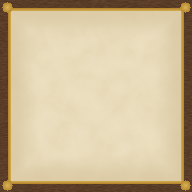
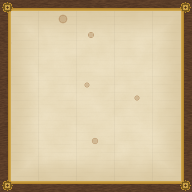
Fase 21, parte 3: papel envelhecido na interface e na carta

diff --git a/assets/TODO_ASSETS.md b/assets/TODO_ASSETS.md
@@ -27,9 +27,9 @@ a descrição, o orçamento de polígonos e o prompt de imagem de referência.
 | posto do comerciante | desde a Fase 15, feitoria gerada no código (`presentation/trader_post_model.gd`): plataforma de tábuas sobre estacas, galpão, guindaste, carga, barcos e bandeira; desde a Fase 20, madeira com veio e tom por tábua, parede de tábuas em pé com fresta (`shaders/plank.gdshader`) e o cordame do guindaste, da bandeira e dos barcos; falta a textura de madeira pintada de verdade | até 6.000 | "feitoria de madeira sobre estacas no mar, século XIX, bandeira de comércio" | 9 |
 | píer | desde a Fase 15, trapiche de tábuas sobre estacas com cabeços de ferro, gerado no código (`presentation/harbor_view.gd`); desde a Fase 20, amarras da proa e da popa dos barcos até os cabeços e a madeira gasta no shader; desde a Fase 21, o cabo dá duas voltas no cabeço; falta a textura de madeira pintada | até 2.000 | "trapiche de madeira sobre estacas, século XIX, cordas e cabeços de amarração" | 9 |
 | rastro e gaivotas | desde a Fase 9, rastro de espuma em partículas e gaivotas voando em volta dos portos (`presentation/ship_view.gd`); desde a Fase 21, a gaivota tem corpo e asa dobrada com a ponta preta, batendo no shader do pássaro e planando (`BirdView.gull_mesh`); falta um modelo de verdade com penas | até 300 | "gaivota em voo, baixo polígono" | 10 |
-| mapa do arquipélago | desde a Fase 7, carta desenhada no código (papel, sépia, litoral a tinta, rosa dos ventos, `ui/hud/archipelago_map.gd`); desde a Fase 20, litoral a tinta, linhas d'água e hachura na terra gravados no código; falta a textura de papel | — | "mapa náutico do século XIX, arquipélago, papel envelhecido, litoral em gravura" | 9 |
+| mapa do arquipélago | desde a Fase 7, carta desenhada no código (papel, sépia, litoral a tinta, rosa dos ventos, `ui/hud/archipelago_map.gd`); desde a Fase 20, litoral a tinta, linhas d'água e hachura na terra gravados no código; desde a Fase 21, o papel com vergê, ferrugem e borda gasta por cima (`ui/theme/paper_grain.gd`); falta o papel pintado à mão | — | "mapa náutico do século XIX, arquipélago, papel envelhecido, litoral em gravura" | 9 |
 | ícones (`ui/icons/icons.png`) | base do game-icons.net (CC BY 3.0) recolorida e emoldurada por `tools/build_icons.gd`; arte própria no mesmo estilo de medalhão (bens), placa de madeira (prédios) e lacre (classes) | 128 px | "ícone de <nome>, gravura do século XIX, tinta sépia sobre papel, moldura dourada" | 9 |
-| papel da interface | desde a Fase 9, papel gerado por ruído com moldura de madeira, filete dourado e cantoneiras (`ThemeBuilder.paper_image`); textura pintada à mão com gravura nas cantoneiras | 512 px, 9-slice | "papel envelhecido do século XIX, bordas gastas, cantoneira de latão" | 10 |
+| papel da interface | desde a Fase 9, papel gerado por ruído com moldura de madeira, filete dourado e cantoneiras (`ThemeBuilder.paper_image`); desde a Fase 21, linhas de vergê, manchas de ferrugem e cantoneiras gravadas (anel e prego), geradas no código; falta a textura pintada à mão | 512 px, 9-slice | "papel envelhecido do século XIX, bordas gastas, cantoneira de latão" | 10 |
 
 ## Retratos (seção 14)
 

diff --git a/AGENTS.md b/AGENTS.md
@@ -1122,6 +1122,14 @@ Regras que já custaram investigação:
   do cabeço, descendo `HITCH_PITCH_M` por volta, e sai dele do lado do barco (antes o cabo nascia no meio do
   ferro); o segundo cabo no mesmo cabeço dá as voltas dele logo abaixo. As voltas entram na malha `Ropes`.
   Captura: `CAPTURA_SO=porto` (`13b_amarras.png`).
+- **Papel envelhecido** (`ui/theme/paper_grain.gd`, `PaperGrain`): as linhas do papel vergê (as finas a cada
+  `LAID_PX`, cada uma com a força dela e falhando ao longo, e as de corrente a cada `CHAIN_PX`), manchas de
+  ferrugem redondas e mais escuras na borda (uma no máximo por quadro de `FOX_CELL_PX`, pelo hash da semente) e
+  a borda gasta recortada por ruído. O `ThemeBuilder.paper_image` passa cada pixel do papel por `age` e grava as
+  cantoneiras gravadas (filete em anel em `CORNER_RING` e prego em `CORNER_NAIL`); mudou o grão, rode
+  `tools/build_theme.gd`. A carta do arquipélago desenha a camada `PaperGrain.overlay` por cima
+  (`ArchipelagoMap.grain`, `GRAIN_PX`, feita uma vez): na própria carta gravada o grão sumiria, porque ela é
+  reduzida 3 a 5 vezes ao ser desenhada. Captura: `CAPTURA_SO=carta` no `tools/capture_phase6.tscn`.
 
 Todo asset ou addon novo entra em `CREDITS.md` (autor, link, licença, arquivos). O que
 faltar vira placeholder e entra em `assets/TODO_ASSETS.md`. Addon só na fase que o usa,
